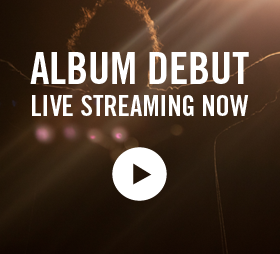
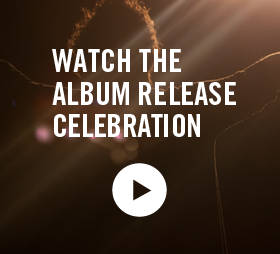
home image change

Changed region(s): [[0.0857, 0.1929, 0.8857, 0.5512], [0.4, 0.5787, 0.6, 0.8543]]

diff --git a/css/styles.css b/css/styles.css
@@ -529,7 +529,7 @@ z-index: 9999;
  margin: 0 auto;
 }
 
-#countbox {
+.stream_tuesday {
 	font-family: franklin-gothic-ext-comp-urw,sans-serif;
 	font-style: normal;
 	font-weight:bold;

diff --git a/index.php b/index.php
@@ -1,4 +1,49 @@
-<?php include("includes/header.php"); ?>
+<!DOCTYPE html>
+<html>
+
+<head>
+
+	<meta http-equiv="Content-Type" content="text/html; charset=utf-8" />
+	<meta property="og:image" content="http://austinstoneworship.com/images/asw_fb2.png"/> 
+	
+	
+	
+	<title>Austin Stone Worship</title>
+
+	<link rel="stylesheet" type="text/css" href="css/style.css" media="screen">
+    <link rel="stylesheet" href="/css/jquery.fancybox-1.3.4.css" type="text/css" /> 
+    <link href='css/jplayer_style.css' rel='stylesheet' type='text/css' />
+	<link rel="stylesheet" type="text/css" href="css/styles.css" media="screen">	
+	
+	<script type="text/javascript" src="http://code.jquery.com/jquery-latest.js"></script> 
+
+	
+	<script type="text/javascript" src="http://use.typekit.com/dvt1bdb.js"></script>
+	<script type="text/javascript">try{Typekit.load();}catch(e){}</script>
+
+    <script src='js/jquery.min.js' type='text/javascript'></script>
+    <script src='js/scripts.js' type='text/javascript'></script>
+    <script src='js/jquery.jplayer.min.js' type='text/javascript' ></script>
+    <script type="text/javascript" src="../js/jquery.fancybox-1.3.4.pack.js"></script>
+    <script type="text/javascript" src="../js/jquery.fancybox-1.3.4.js"></script>
+
+	<script>
+		$(function(){
+			$('.expand .show').click(function(){
+				var obj = $(this).parents('.expand');
+				if ($(obj).hasClass('expanded')) {
+					$(obj).removeClass('expanded');
+					$('.content',obj).slideUp('slow');					
+					$(this).text('About the Album');
+				} else {
+					$(obj).addClass('expanded');
+					$('.content',obj).slideDown('slow');
+					$(this).text('– Hide Details –');
+				}
+				return false;
+			});
+		});
+	</script>
 
     
     <script type='text/javascript'>
@@ -43,7 +88,31 @@
 		});
 	</script>	
  
- <?php include("includes/social-analytics.php"); ?>
+     <script src="//platform.twitter.com/widgets.js" type="text/javascript"></script>
+    <script>
+        function popup() {
+            window.open('https://twitter.com/share?text=Listening to music from Austin Stone Worship @asworship',"Share","status=1,height=450,width=550,resizable=0");
+        }    
+        function fbs_click() {
+            u=location.href;
+            window.open('http://www.facebook.com/sharer.php?u='+encodeURIComponent(u),'sharer','toolbar=0,status=0,width=626,height=336');
+            return false;
+        }
+    </script>
+    
+    <script type="text/javascript">
+
+  var _gaq = _gaq || [];
+  _gaq.push(['_setAccount', 'UA-3493264-15']);
+  _gaq.push(['_trackPageview']);
+
+  (function() {
+    var ga = document.createElement('script'); ga.type = 'text/javascript'; ga.async = true;
+    ga.src = ('https:' == document.location.protocol ? 'https://ssl' : 'http://www') + '.google-analytics.com/ga.js';
+    var s = document.getElementsByTagName('script')[0]; s.parentNode.insertBefore(ga, s);
+  })();
+
+</script>
     
 </head>
 
@@ -67,8 +136,7 @@
 	<div class="container">
 		<div class="home_wrap">
 		
-		<a href="http://stream.austinstone.net/view/requirements.html"><p class="mono" style="margin:0 0 5px 155px;">Problems viewing live stream?</a></p>
-		<div id="countbox"><a class="iframe style="width:720px;height:410px;" href="http://stream.austinstone.net/view/"><img src="images/live_stream.png" /></a></div>
+		<div class="stream_tuesday"><a class="iframe style="width:720px;height:410px;" href="http://stream.austinstone.net/view/"><img src="images/live_stream.png" /></a></div>
 		<a href="http://itunes.apple.com/us/album/id482639306"><div class="move_home"><img src="images/album_cover-live_home.png" /></div></a>	
 		</div><!--/home_wrap-->
 	</div><!--/container-->
